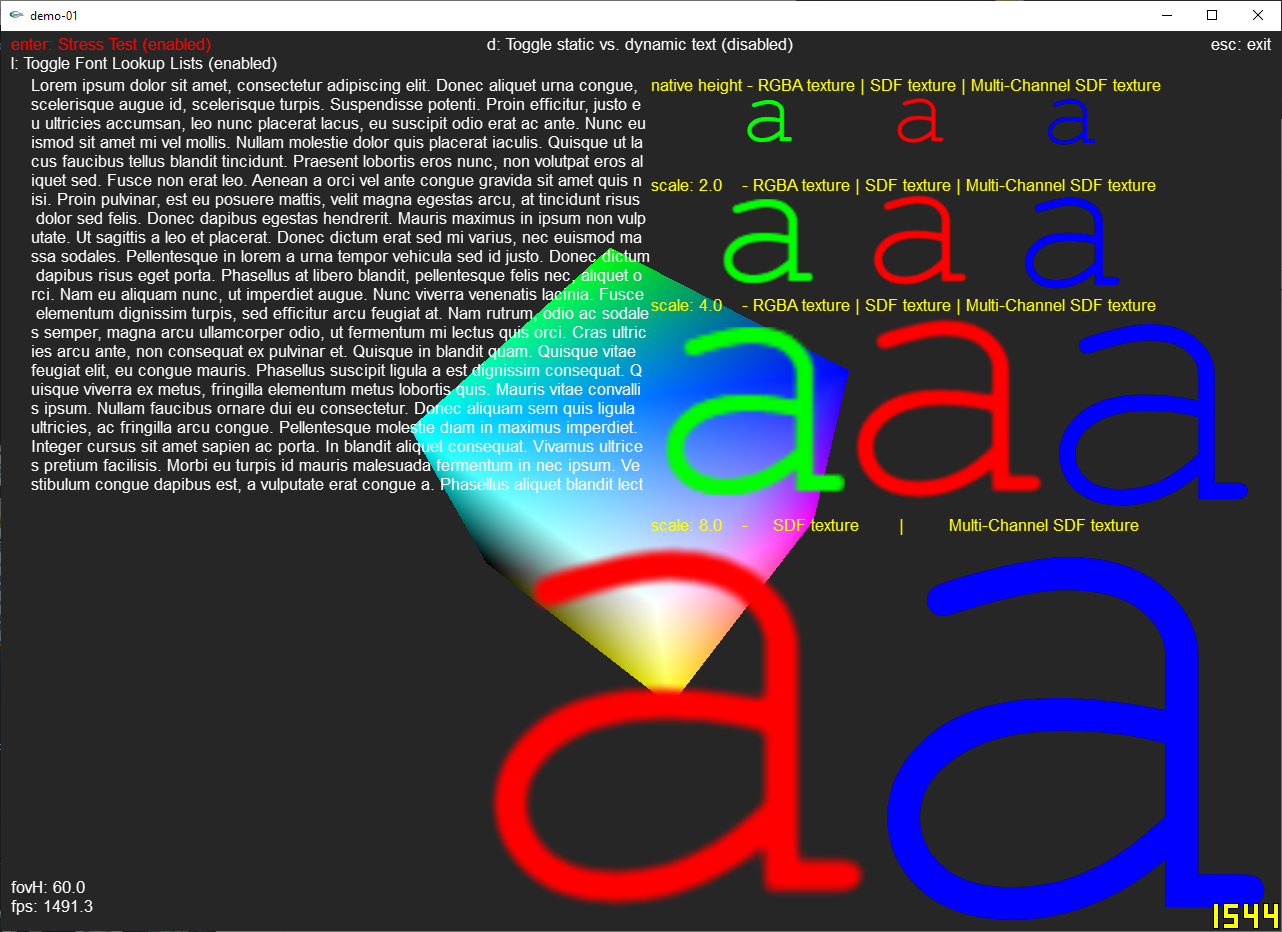
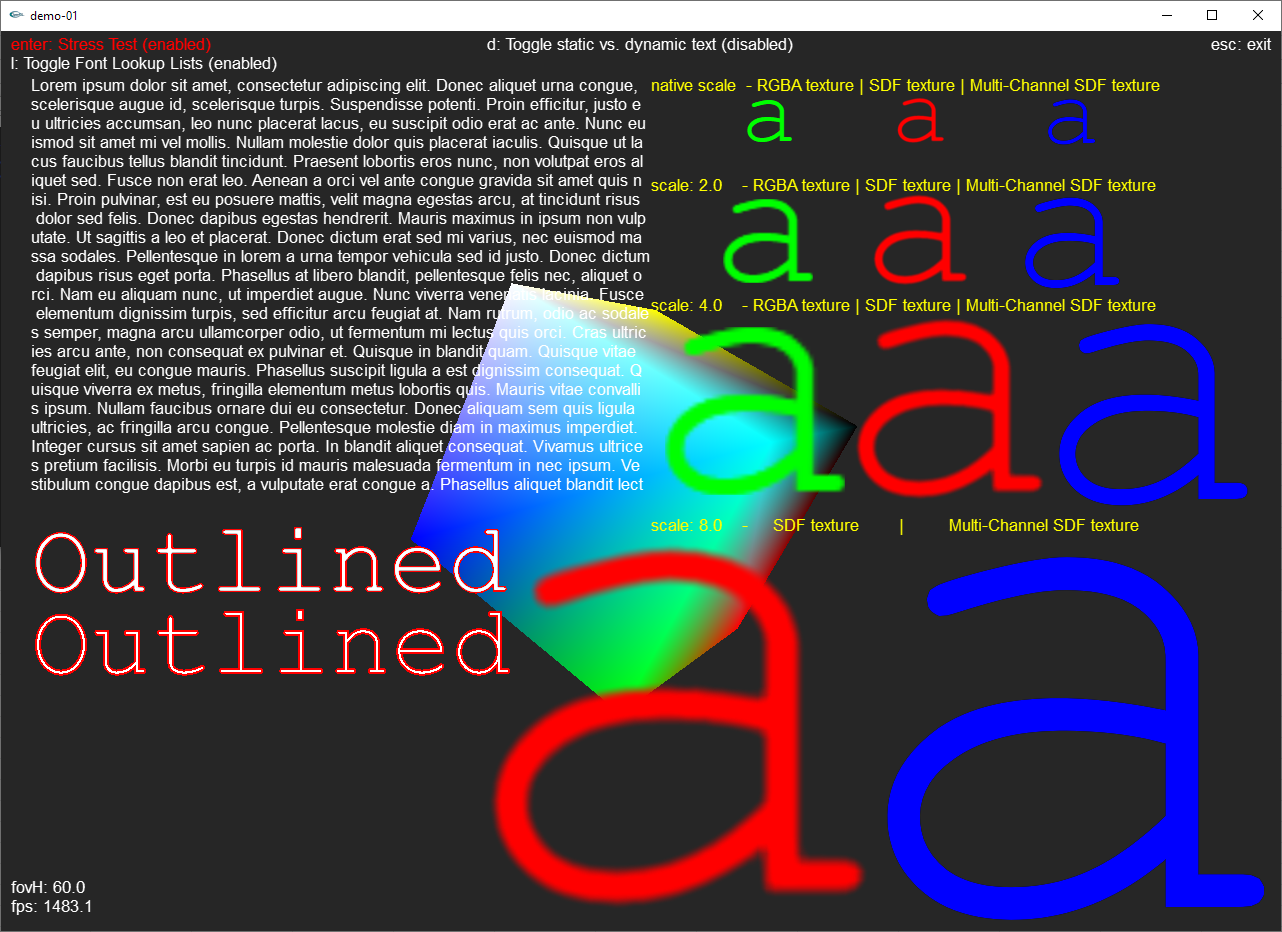
Added outline option for SDF fonts

diff --git a/FontLibrary/FontLibrary.cpp b/FontLibrary/FontLibrary.cpp
@@ -303,7 +303,7 @@ bool CFontLibrary::InitGLFonts(bool compressNonSDFTextures/* = false*/)
 	return success;
 }
 
-void CFontLibrary::DrawString(std::string textToDraw, int x, int y, float color[4], std::string font, unsigned int winW, unsigned int winH, float scale, float bgColor[4])
+void CFontLibrary::DrawString(std::string textToDraw, int x, int y, float color[4], std::string font, unsigned int winW, unsigned int winH, float scale, int outline , float outlineColor[4], float bgColor[4])
 {
 	CDrawString* volatileString = new CDrawString(0, font, textToDraw, x, y, color, scale);
 	volatileString->m_winH = winH;
@@ -317,7 +317,7 @@ void CFontLibrary::DrawString(std::string textToDraw, int x, int y, float color[
 	}
 	PopulateVertexBuffers(volatileString);
 
-	DrawTriangles(font, color, volatileString, bgColor);
+	DrawTriangles(font, color, volatileString, outline, outlineColor, bgColor);
 	delete volatileString;
 }
 
@@ -380,22 +380,22 @@ void CFontLibrary::PopulateVertexBuffers(CDrawString* stringObject)
 		//first triangle of quad
 
 		//top left vertex
-		vertexBufferPositions[vertexIndex] = (((float)quadList[i].topLeftX)/winW)*2.0f - 1.0f;
-		vertexBufferPositions[vertexIndex+1] = (((float)quadList[i].topLeftY)/winH)*2.0f - 1.0f;
+		vertexBufferPositions[vertexIndex] = ((quadList[i].topLeftX)/(float)winW)*2.0f - 1.0f;
+		vertexBufferPositions[vertexIndex+1] = ((quadList[i].topLeftY)/(float)winH)*2.0f - 1.0f;
 		vertexBufferPositions[vertexIndex+2] = 0.0f;
 		vertexBufferUV[uvIndex] = quadList[i].textureTopLeftX;
 		vertexBufferUV[uvIndex+1] = quadList[i].textureTopLeftY;
 
 		//bottom left vertex
-		vertexBufferPositions[vertexIndex+3] = (((float)quadList[i].bottomLeftX)/winW)*2.0f - 1.0f;
-		vertexBufferPositions[vertexIndex+3+1] = (((float)quadList[i].bottomLeftY)/winH)*2.0f - 1.0f;
+		vertexBufferPositions[vertexIndex+3] = ((quadList[i].bottomLeftX)/(float)winW)*2.0f - 1.0f;
+		vertexBufferPositions[vertexIndex+3+1] = ((quadList[i].bottomLeftY)/(float)winH)*2.0f - 1.0f;
 		vertexBufferPositions[vertexIndex+3+2] = 0.0f;
 		vertexBufferUV[uvIndex+2] = quadList[i].textureBottomLeftX;
 		vertexBufferUV[uvIndex+2+1] = quadList[i].textureBottomLeftY;
 
 		//bottom right vertex
-		vertexBufferPositions[vertexIndex+6] = (((float)quadList[i].bottomRightX)/winW)*2.0f - 1.0f;
-		vertexBufferPositions[vertexIndex+6+1] = (((float)quadList[i].bottomRightY)/winH)*2.0f - 1.0f;
+		vertexBufferPositions[vertexIndex+6] = ((quadList[i].bottomRightX)/(float)winW)*2.0f - 1.0f;
+		vertexBufferPositions[vertexIndex+6+1] = ((quadList[i].bottomRightY)/(float)winH)*2.0f - 1.0f;
 		vertexBufferPositions[vertexIndex+6+2] = 0.0f;
 		vertexBufferUV[uvIndex+4] = quadList[i].textureBottomRightX;
 		vertexBufferUV[uvIndex+4+1] = quadList[i].textureBottomRightY;
@@ -403,22 +403,22 @@ void CFontLibrary::PopulateVertexBuffers(CDrawString* stringObject)
 		////////second triangle of quad
 
 		//top left vertex
-		vertexBufferPositions[vertexIndex+9] = (((float)quadList[i].topLeftX)/winW)*2.0f - 1.0f;
-		vertexBufferPositions[vertexIndex+9+1] = (((float)quadList[i].topLeftY)/winH)*2.0f - 1.0f;
+		vertexBufferPositions[vertexIndex+9] = ((quadList[i].topLeftX)/(float)winW)*2.0f - 1.0f;
+		vertexBufferPositions[vertexIndex+9+1] = ((quadList[i].topLeftY)/(float)winH)*2.0f - 1.0f;
 		vertexBufferPositions[vertexIndex+9+2] = 0.0f;
 		vertexBufferUV[uvIndex+6] = quadList[i].textureTopLeftX;
 		vertexBufferUV[uvIndex+6+1] = quadList[i].textureTopLeftY;
 
 		//bottom right vertex
-		vertexBufferPositions[vertexIndex+12] = (((float)quadList[i].bottomRightX)/winW)*2.0f - 1.0f;
-		vertexBufferPositions[vertexIndex+12+1] = (((float)quadList[i].bottomRightY)/winH)*2.0f - 1.0f;
+		vertexBufferPositions[vertexIndex+12] = ((quadList[i].bottomRightX)/(float)winW)*2.0f - 1.0f;
+		vertexBufferPositions[vertexIndex+12+1] = ((quadList[i].bottomRightY)/(float)winH)*2.0f - 1.0f;
 		vertexBufferPositions[vertexIndex+12+2] = 0.0f;
 		vertexBufferUV[uvIndex+8] = quadList[i].textureBottomRightX;
 		vertexBufferUV[uvIndex+8+1] = quadList[i].textureBottomRightY;
 
 		//top right vertex
-		vertexBufferPositions[vertexIndex+15] = (((float)quadList[i].topRightX)/winW)*2.0f - 1.0f;
-		vertexBufferPositions[vertexIndex+15+1] = (((float)quadList[i].topRightY)/winH)*2.0f - 1.0f;
+		vertexBufferPositions[vertexIndex+15] = ((quadList[i].topRightX)/(float)winW)*2.0f - 1.0f;
+		vertexBufferPositions[vertexIndex+15+1] = ((quadList[i].topRightY)/(float)winH)*2.0f - 1.0f;
 		vertexBufferPositions[vertexIndex+15+2] = 0.0f;
 		vertexBufferUV[uvIndex+10] = quadList[i].textureTopRightX;
 		vertexBufferUV[uvIndex+10+1] = quadList[i].textureTopRightY;
@@ -445,7 +445,7 @@ void CFontLibrary::PopulateVertexBuffers(CDrawString* stringObject)
 	delete[] quadList;
 }
 
-void CFontLibrary::DrawString(unsigned int ID, std::string textToDraw, int x, int y, float color[4], std::string font, unsigned int winW, unsigned int winH, float scale, float bgColor[4])
+void CFontLibrary::DrawString(unsigned int ID, std::string textToDraw, int x, int y, float color[4], std::string font, unsigned int winW, unsigned int winH, float scale, int outline , float outlineColor[4], float bgColor[4])
 {
 	std::map<unsigned int, CDrawString*>::const_iterator found = m_glStringList.find(ID);
 	CDrawString* savedString = nullptr;
@@ -459,7 +459,8 @@ void CFontLibrary::DrawString(unsigned int ID, std::string textToDraw, int x, in
 			(bgColor && (bgColor[0] != savedString->m_bgColor[0] || bgColor[1] != savedString->m_bgColor[1] || bgColor[2] != savedString->m_bgColor[2] || bgColor[3] != savedString->m_bgColor[3])) ||
 			(scale != savedString->m_scale) ||
 			(winW != savedString->m_winW) || 
-			(winH != savedString->m_winH)
+			(winH != savedString->m_winH) || 
+			(outline != savedString->m_outline) && (outlineColor[0] != savedString->m_outlineColor[0] || outlineColor[1] != savedString->m_outlineColor[1] || outlineColor[2] != savedString->m_outlineColor[2] || outlineColor[3] != savedString->m_outlineColor[3])
 			)
 		{
 			savedString->m_color[0] = color[0];
@@ -472,6 +473,14 @@ void CFontLibrary::DrawString(unsigned int ID, std::string textToDraw, int x, in
 				savedString->m_bgColor[1] = bgColor[1];
 				savedString->m_bgColor[2] = bgColor[2];
 				savedString->m_bgColor[3] = bgColor[3];
+			}
+			savedString->m_outline = outline;
+			if(outline)
+			{
+				savedString->m_outlineColor[0] = outlineColor[0];
+				savedString->m_outlineColor[1] = outlineColor[1];
+				savedString->m_outlineColor[2] = outlineColor[2];
+				savedString->m_outlineColor[3] = outlineColor[3];
 			}
 			savedString->m_x = x;
 			savedString->m_y = y;
@@ -496,6 +505,14 @@ void CFontLibrary::DrawString(unsigned int ID, std::string textToDraw, int x, in
 			savedString->m_bgColor[2] = bgColor[2];
 			savedString->m_bgColor[3] = bgColor[3];
 		}
+		if(outline)
+		{
+			savedString->m_outline = outline;
+			savedString->m_outlineColor[0] = outlineColor[0];
+			savedString->m_outlineColor[1] = outlineColor[1];
+			savedString->m_outlineColor[2] = outlineColor[2];
+			savedString->m_outlineColor[3] = outlineColor[3];
+		}
 	}
 
 	if(found == m_glStringList.end() && savedString)
@@ -503,12 +520,12 @@ void CFontLibrary::DrawString(unsigned int ID, std::string textToDraw, int x, in
 
 	PopulateVertexBuffers(savedString);
 
-	DrawTriangles(font, color, savedString, bgColor);
+	DrawTriangles(font, color, savedString, outline, outlineColor, bgColor);
 }
 
 //draws the string until lineWidth(pixels) then cuts it off there and draws the rest underneath and so forth till the last character in the string has been drawn
 //draws only the text up to the specified line, if maxLines parameter is zero, it means there is no limit
-void CFontLibrary::DrawStringWithLineBreaks(unsigned int ID, std::string textToDraw, int x, int y, float color[4], std::string font, unsigned int winW, unsigned int winH, float scale, int lineWidth, int maxLines)
+void CFontLibrary::DrawStringWithLineBreaks(unsigned int ID, std::string textToDraw, int x, int y, float color[4], std::string font, unsigned int winW, unsigned int winH, float scale, int lineWidth, int maxLines, int outline , float outlineColor[4])
 {
 	std::map<unsigned int, CDrawString*>::const_iterator found = m_glStringList.find(ID);
 	CDrawString* savedString = nullptr;
@@ -523,9 +540,18 @@ void CFontLibrary::DrawStringWithLineBreaks(unsigned int ID, std::string textToD
 			(maxLines != savedString->m_maxLines) ||
 			(lineWidth != savedString->m_lineWidth) ||
 			(winW != savedString->m_winW) || 
-			(winH != savedString->m_winH)
+			(winH != savedString->m_winH) ||
+			(outline != savedString->m_outline) && (outlineColor[0] != savedString->m_outlineColor[0] || outlineColor[1] != savedString->m_outlineColor[1] || outlineColor[2] != savedString->m_outlineColor[2] || outlineColor[3] != savedString->m_outlineColor[3])
 			)
 		{
+			savedString->m_outline = outline;
+			if(outline)
+			{
+				savedString->m_outlineColor[0] = outlineColor[0];
+				savedString->m_outlineColor[1] = outlineColor[1];
+				savedString->m_outlineColor[2] = outlineColor[2];
+				savedString->m_outlineColor[3] = outlineColor[3];
+			}
 			savedString->m_color[0] = color[0];
 			savedString->m_color[1] = color[1];
 			savedString->m_color[2] = color[2];
@@ -547,6 +573,14 @@ void CFontLibrary::DrawStringWithLineBreaks(unsigned int ID, std::string textToD
 		savedString = new CDrawString(ID, font, textToDraw, x, y, color, scale);
 		savedString->m_lineWidth = lineWidth;
 		savedString->m_maxLines = maxLines;
+		if(outline)
+		{
+			savedString->m_outline = outline;
+			savedString->m_outlineColor[0] = outlineColor[0];
+			savedString->m_outlineColor[1] = outlineColor[1];
+			savedString->m_outlineColor[2] = outlineColor[2];
+			savedString->m_outlineColor[3] = outlineColor[3];
+		}
 	}
 
 	if(found == m_glStringList.end() && savedString)
@@ -554,12 +588,12 @@ void CFontLibrary::DrawStringWithLineBreaks(unsigned int ID, std::string textToD
 
 	PopulateVertexBuffers(savedString);
 
-	DrawTriangles(font, color, savedString);
+	DrawTriangles(font, color, savedString, outline, outlineColor);
 }
 
 //draws the string until lineWidth(pixels) then cuts it off there and draws the rest underneath and so forth till the last character in the string has been drawn
 //draws only the text up to the specified line, if maxLines parameter is zero, it means there is no limit
-void CFontLibrary::DrawStringWithLineBreaks(std::string textToDraw, int x, int y, float color[4], std::string font, unsigned int winW, unsigned int winH, float scale, int lineWidth, int maxLines)
+void CFontLibrary::DrawStringWithLineBreaks(std::string textToDraw, int x, int y, float color[4], std::string font, unsigned int winW, unsigned int winH, float scale, int lineWidth, int maxLines, int outline , float outlineColor[4])
 {
 	CDrawString* volatileString = new CDrawString(0, font, textToDraw, x, y, color, scale);
 	volatileString->m_lineWidth = lineWidth;
@@ -598,20 +632,20 @@ float CFontLibrary::AdjustForKerningPairs(std::string font, std::string textToDr
 {
 	int ascii1 = GetTextChar(textToDraw, first);
 	int ascii2 = GetTextChar(textToDraw, second);
-	if( ascii1 <= 0 || ascii2 <= 0 ) return 0;
+	if( ascii1 <= 0 || ascii2 <= 0 ) return 0.0f;
 
 	CGLFont* currFont = GetFontPointer(font);
-	if(!currFont) return 0;
+	if(!currFont) return 0.0f;
 
 	if(ascii1 <= (int)currFont->m_highestKerningFirst && ascii2 <= (int)currFont->m_highestKerningSecond)
 		return currFont->m_kernings[ascii1][ascii2];
 
-	return 0;
+	return 0.0f;
 }
 
 float CFontLibrary::GetWidthOfString(std::string textToDraw, std::string font, float scale, bool ignoreKerning)
 {
-	float retVal = 0;
+	float retVal = 0.0f;
 
 	for(unsigned int i=0; i<textToDraw.length(); i++)
 	{
@@ -663,7 +697,7 @@ CGLQuad2D* CFontLibrary::TextToQuadList(std::string font, std::string textToDraw
 
 	int defaultChar = 63; //'?', default for unknown characters is the question mark
 
-	int cursor = 0;
+	float cursor = 0;
 
 	for(unsigned int i=0; i<textToDraw.length(); i++)
 	{
@@ -689,28 +723,29 @@ CGLQuad2D* CFontLibrary::TextToQuadList(std::string font, std::string textToDraw
 		int base = currfont->m_base;
 
 		//top left
-		quadList[i].textureTopLeftX = (float) charX / (float) currfont->m_textureW;
-		quadList[i].textureTopLeftY = (float) charY / (float) currfont->m_textureH;
-		quadList[i].topLeftX = cursor + (int)((offsetX)*scale) + x;
-		quadList[i].topLeftY = y + (int)((base - offsetY)*scale);
+ 		quadList[i].textureTopLeftX = (float) charX / (float) currfont->m_textureW;
+ 		quadList[i].textureTopLeftY = (float) charY / (float) currfont->m_textureH;
+		quadList[i].topLeftX = cursor + ((offsetX)*scale) + x;
+		quadList[i].topLeftY = y + ((base - offsetY)*scale);
+ 
+ 		//top right
+ 		quadList[i].textureTopRightX = (float) (charX+width) / (float) currfont->m_textureW;
+ 		quadList[i].textureTopRightY = (float) charY / (float) currfont->m_textureH;
+		quadList[i].topRightX = ((width + offsetX)*scale) + x + cursor;
+		quadList[i].topRightY = y + ((base - offsetY)*scale);
+ 
+ 		//bottom right
+ 		quadList[i].textureBottomRightX = (float) (charX+width) / (float) currfont->m_textureW;
+ 		quadList[i].textureBottomRightY = (float) (charY+height) / (float) currfont->m_textureH;
+		quadList[i].bottomRightX = ((width + offsetX)*scale) + x + cursor;
+		quadList[i].bottomRightY = y + ((base - offsetY - height)*scale);
+ 
+ 		//bottom left
+ 		quadList[i].textureBottomLeftX = (float) charX / (float) currfont->m_textureW;
+ 		quadList[i].textureBottomLeftY = (float) (charY+height) / (float) currfont->m_textureH;
+		quadList[i].bottomLeftX = ((offsetX)*scale) + x + cursor;
+		quadList[i].bottomLeftY = y + ((base - offsetY - height)*scale);
 
-		//top right
-		quadList[i].textureTopRightX = (float) (charX+width) / (float) currfont->m_textureW;
-		quadList[i].textureTopRightY = (float) charY / (float) currfont->m_textureH;
-		quadList[i].topRightX = (int)((width + offsetX)*scale) + x + cursor;
-		quadList[i].topRightY = y + (int)((base - offsetY)*scale);
-
-		//bottom right
-		quadList[i].textureBottomRightX = (float) (charX+width) / (float) currfont->m_textureW;
-		quadList[i].textureBottomRightY = (float) (charY+height) / (float) currfont->m_textureH;
-		quadList[i].bottomRightX = (int)((width + offsetX)*scale) + x + cursor;
-		quadList[i].bottomRightY = y + (int)((base - offsetY - height)*scale);
-
-		//bottom left
-		quadList[i].textureBottomLeftX = (float) charX / (float) currfont->m_textureW;
-		quadList[i].textureBottomLeftY = (float) (charY+height) / (float) currfont->m_textureH;
-		quadList[i].bottomLeftX = (int)((offsetX)*scale) + x + cursor;
-		quadList[i].bottomLeftY = y + (int)((base - offsetY - height)*scale);
 
 		//calc kerning depending on current and next character in the string to draw
 		float kerning = 0.0f;
@@ -725,7 +760,7 @@ CGLQuad2D* CFontLibrary::TextToQuadList(std::string font, std::string textToDraw
 		}
 
 		//get cursor position in x-direction for next character in string
-		cursor += (currfont->m_fontCharInfo[ascii]->m_xadvance + (int)kerning)*(int)scale;
+		cursor += ((float)currfont->m_fontCharInfo[ascii]->m_xadvance + kerning)*scale;
 	}
 
 	return quadList;
@@ -744,7 +779,7 @@ int CFontLibrary::GetTextChar(std::string textToDraw, int pos)
 	return ch;
 }
 
-void CFontLibrary::DrawTriangles(std::string font, float color[4], CDrawString* stringObject, float bgColor[4])
+void CFontLibrary::DrawTriangles(std::string font, float color[4], CDrawString* stringObject, int outline/* = 0*/, float outlineColor[4]/* = {0}*/, float bgColor[4]/* = {0}*/)
 {
 	CGLFont* currFont = GetFontPointer(font);
 	if (!currFont || !stringObject)
@@ -804,6 +839,17 @@ void CFontLibrary::DrawTriangles(std::string font, float color[4], CDrawString* 
 		GLint fgColorLoc = glGetUniformLocation(programID, "fgColor");
 		if(fgColorLoc >= 0)
 			glUniform4f(fgColorLoc, color[0], color[1], color[2], color[3]);
+
+		GLint outlineLoc = glGetUniformLocation(programID, "outline");
+		if(outlineLoc >= 0)
+			glUniform1i(outlineLoc, outline);
+
+		if(outline)
+		{
+			GLint outlineColorLoc = glGetUniformLocation(programID, "outlineColor");
+			if(outlineColorLoc >= 0)
+				glUniform4f(outlineColorLoc, outlineColor[0], outlineColor[1], outlineColor[2], outlineColor[3]);
+		}
 
 		if(currFont->m_sdfType == SDF_MULTI)
 		{

diff --git a/FontLibrary/FontLibrary.h b/FontLibrary/FontLibrary.h
@@ -31,14 +31,14 @@
 class CGLQuad2D
 {
 public:
-	int topLeftX = 0;
-	int topLeftY = 0;
-	int topRightX = 0;
-	int topRightY = 0;
-	int bottomRightX = 0;
-	int bottomRightY = 0;
-	int bottomLeftX = 0;
-	int bottomLeftY = 0;
+	float topLeftX = 0;
+	float topLeftY = 0;
+	float topRightX = 0;
+	float topRightY = 0;
+	float bottomRightX = 0;
+	float bottomRightY = 0;
+	float bottomLeftX = 0;
+	float bottomLeftY = 0;
 
 	float textureTopLeftX = 0;
 	float textureTopLeftY = 0;
@@ -53,13 +53,7 @@ public:
 class CDrawString
 {
 public:
-	CDrawString()
-	{
-		m_color[0] = 0.0f;
-		m_color[1] = 0.0f;
-		m_color[2] = 0.0f;
-		m_color[3] = 0.0f;
-	};
+	CDrawString(){};
 
 	CDrawString(unsigned int ID, std::string font, std::string textToDraw, int x, int y, float color[4], float scale)
 	{
@@ -91,7 +85,7 @@ public:
 	std::string		m_text;
 	int				m_x = 0;
 	int				m_y = 0;
-	float			m_color[4];
+	float			m_color[4] = {0};
 	float			m_scale = 1.0;
 	int				m_lineWidth = 0;
 	int				m_maxLines = 0;
@@ -102,6 +96,8 @@ public:
 	std::string		m_font = GLFONT_ARIAL20;
 	unsigned int	m_numVerticies = 0;
 	float			m_bgColor[4] = {0};
+	int				m_outline = 0; //can be 0, for no outline 1 or higher
+	float			m_outlineColor[4] = {0};
 };
 
 class CFontLibrary
@@ -118,10 +114,10 @@ public:
 	//functions:
 	bool ParseAllFontsInFolder();
 	bool InitGLFonts(bool compressNonSDFTextures = false);
-	void DrawString(std::string textToDraw, int x, int y, float color[4], std::string font, unsigned int winW, unsigned int winH, float scale = 1.0f, float bgcolor[4] = {0}); //bgColor is only taken into account when using multi channel SDFs
-	void DrawString(unsigned int ID, std::string textToDraw, int x, int y, float color[4], std::string font, unsigned int winW, unsigned int winH, float scale = 1.0f, float bgcolor[4] = {0}); //bgColor is only taken into account when using multi channel SDFs
-	void DrawStringWithLineBreaks(std::string textToDraw, int x, int y, float color[4], std::string font, unsigned int winW, unsigned int winH, float scale, int lineWidth, int maxLines);
-	void DrawStringWithLineBreaks(unsigned int ID, std::string textToDraw, int x, int y, float color[4], std::string font, unsigned int winW, unsigned int winH, float scale, int lineWidth, int maxLines);
+	void DrawString(std::string textToDraw, int x, int y, float color[4], std::string font, unsigned int winW, unsigned int winH, float scale = 1.0f, int outline = 0, float outlineColor[4] = {0}, float bgcolor[4] = {0}); //bgColor is only taken into account when using multi channel SDFs
+	void DrawString(unsigned int ID, std::string textToDraw, int x, int y, float color[4], std::string font, unsigned int winW, unsigned int winH, float scale = 1.0f, int outline = 0, float outlineColor[4] = {0}, float bgcolor[4] = {0}); //bgColor is only taken into account when using multi channel SDFs
+	void DrawStringWithLineBreaks(std::string textToDraw, int x, int y, float color[4], std::string font, unsigned int winW, unsigned int winH, float scale, int lineWidth, int maxLines, int outline = 0, float outlineColor[4] = {0});
+	void DrawStringWithLineBreaks(unsigned int ID, std::string textToDraw, int x, int y, float color[4], std::string font, unsigned int winW, unsigned int winH, float scale, int lineWidth, int maxLines, int outline = 0, float outlineColor[4] = {0});
 	unsigned int GetNewDrawStringID();
 	float GetWidthOfString(std::string textToDraw, std::string font, float scale = 1.0f, bool ignoreKerning = true);
 	unsigned int GetLineHeight(std::string font);
@@ -131,7 +127,7 @@ private:
 	float AdjustForKerningPairs(std::string font, std::string textToDraw, int first, char second, float scale);
 	CGLFont* ParseFont(std::string fileName);
 	CGLQuad2D* TextToQuadList(std::string font, std::string textToDraw, int x, int y, float scale);
-	void CFontLibrary::DrawTriangles(std::string font, float color[4], CDrawString* stringObject, float bgColor[4] = {0});
+	void CFontLibrary::DrawTriangles(std::string font, float color[4], CDrawString* stringObject, int outline = 0, float outlineColor[4] = {0}, float bgColor[4] = {0});
 	CGLFont* GetFontPointer(std::string fontName);
 	int GetTextChar(std::string textToDraw, int pos);
 	unsigned int GetWidthOfChar(char ch, std::string font);

diff --git a/README.md b/README.md
@@ -5,6 +5,7 @@ This font rendering library was designed with ease of use and render performance
 ![Demo Project Screenshot](Documentation/SDFComparison.png "Screenshot from the Demo project.")
 
 # Changelog
+- June 20th 2020: Added Outline option for SDF fonts
 - May 27th 2020: Added DXT texture compression for non SDF fonts to improve render performance and decrease GPU memory usage
 - May 6th 2020: GetWidthOfString() function now can take kernings into consideration, its disabled by default though for performance reasons
 - April 30th 2020: fixed a bug with colors in single channel SDFs, added SDF comparison
